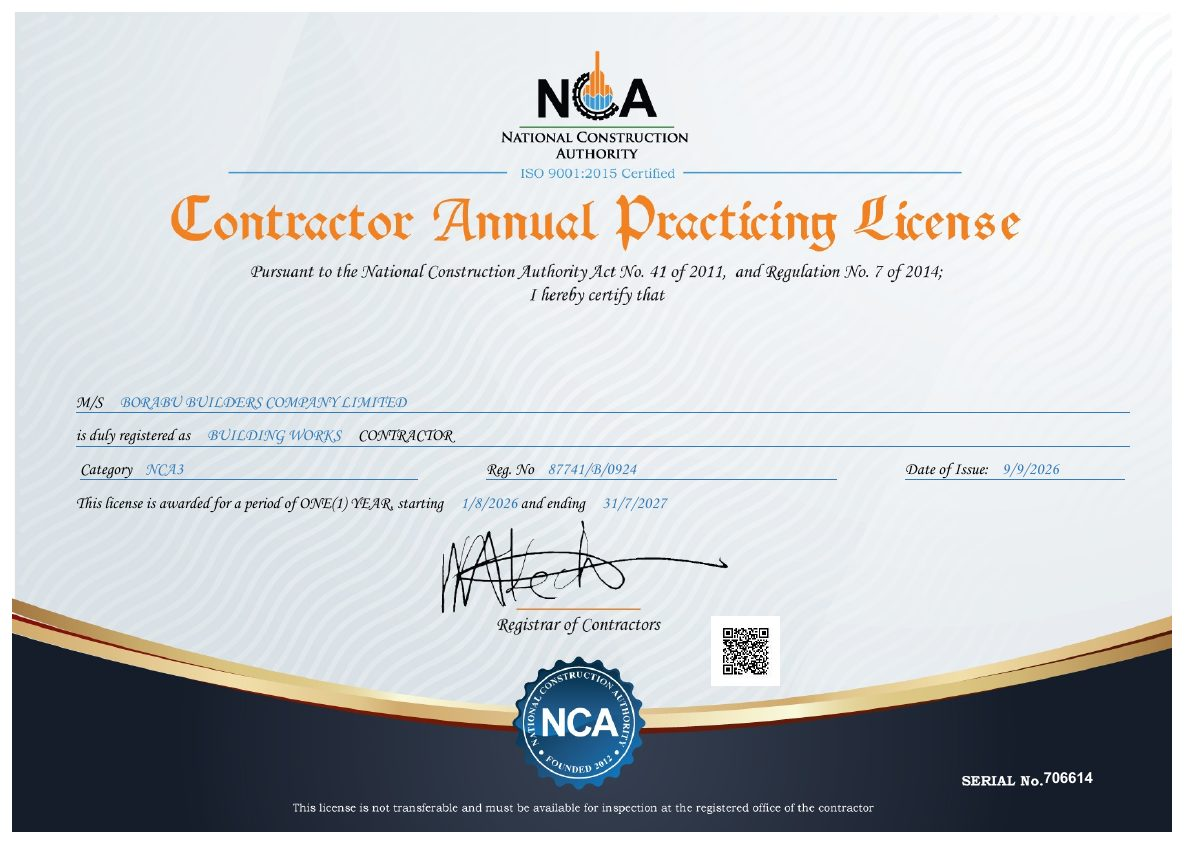
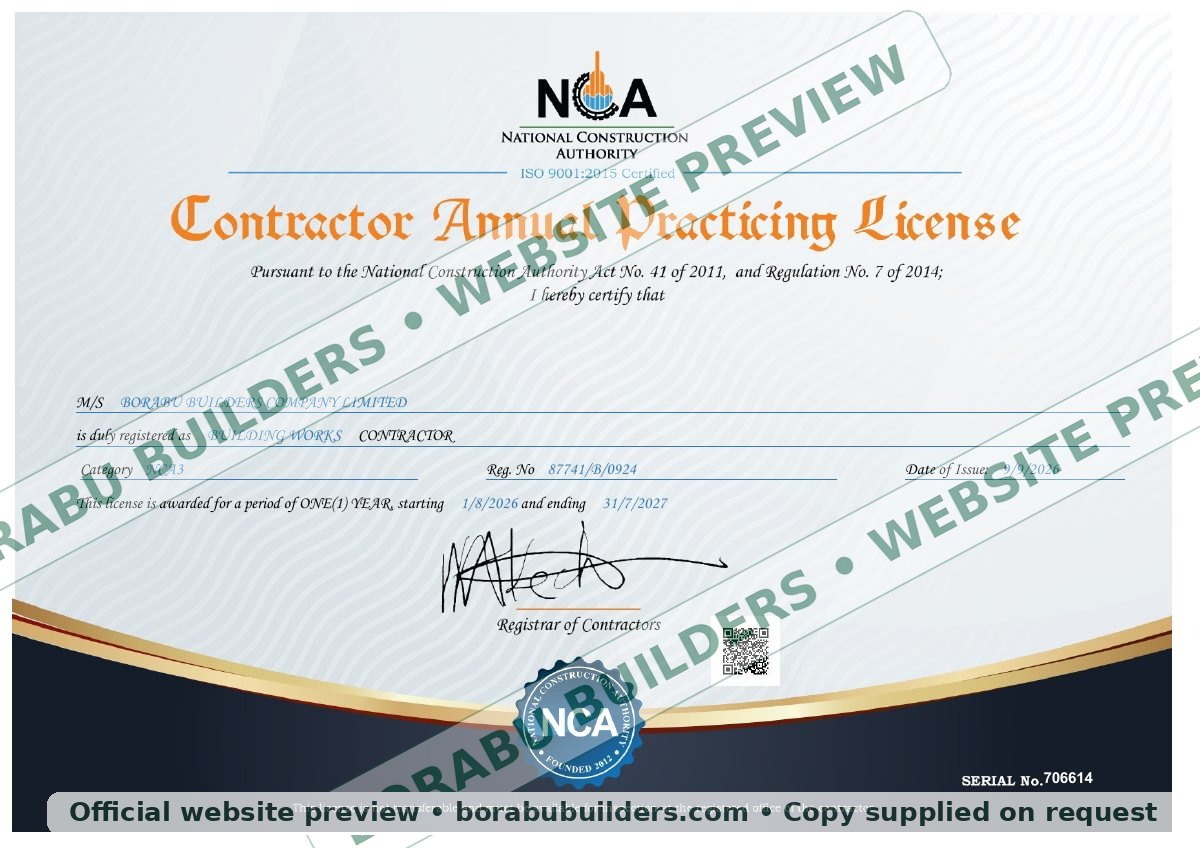
Add files via upload

diff --git a/about.html b/about.html
@@ -1,7 +1,7 @@
 <!DOCTYPE html>
 <html lang="en"><head><meta charset="utf-8"/><meta content="width=device-width,initial-scale=1" name="viewport"/><title>About | Borabu Builders Co. Ltd</title><link href="assets/css/styles.css" rel="stylesheet"/><link href="https://borabubuilders.com/about.html" rel="canonical"/><meta content="Learn about Borabu Builders Co. Ltd, a Kenyan construction company delivering building and infrastructure projects." name="description"/></head><body><header class="site-header"><div class="container nav"><a class="brand" href="index.html"><img alt="Borabu Builders logo" src="assets/images/borabu-logo.jpg"/><span>Borabu Builders<br/>Co. Ltd</span></a><nav class="nav-links"><a href="index.html">Home</a><a href="about.html">About</a><a href="services.html">Services</a><a href="projects.html">Projects</a><a href="contact.html">Contact</a></nav><a class="btn btn-primary project-trigger" href="#start-project">Start a project</a><button class="menu-toggle">☰</button></div></header><main><section class="page-hero"><div class="container"><div class="eyebrow">About Borabu</div><h1>Built in Kericho.<br/>Built to endure.</h1><p>Borabu Builders' current company history traces the business to 1988 and a foundation in practical construction delivery.</p></div></section><section><div class="container content-grid"><div><div class="eyebrow">Our story</div><h2>Experience measured in decades.</h2></div><div><p class="lead">Borabu Builders Company Limited was founded in 1988 in Kericho County, originally operating as Anyoka Borabu Builders, a sole proprietorship.</p><p>Over time, the company expanded its construction capability across residential, commercial, educational, industrial and public-service facilities, alongside water works, roads, structural steel, boreholes, repairs and renovations.</p><p>The company's current public website references work with major tea-sector organizations, private-sector clients and Government of Kenya departments and agencies.</p></div></div></section><section style="padding-top:0"><div class="container image-band reveal"><img alt="Construction works in progress" src="assets/images/project-unfinished.webp"/></div></section><section class="heritage"><div class="container heritage-grid"><div><div class="eyebrow">How we work</div><h2>Practical capability across the project lifecycle.</h2><p>Our strongest story is not a slogan. It is the ability to mobilize construction capability across different project types and environments, with experience that has accumulated over decades.</p></div><div class="service-grid" style="grid-template-columns:1fr 1fr;margin:0"><div class="service-card"><h3>Experience</h3><p>A business history stretching back to 1988.</p></div><div class="service-card"><h3>Range</h3><p>Capabilities across buildings, water, roads, steel and boreholes.</p></div><div class="service-card"><h3>Local roots</h3><p>Established presence in Kericho County.</p></div><div class="service-card"><h3>Cross-sector work</h3><p>Experience spanning private and public-sector environments.</p></div></div></div></section><section class="credentials" id="certifications"><div class="container"><div class="intro-grid reveal"><div><div class="eyebrow">Registration &amp; credentials</div><h2>Licensed for building and road works.</h2></div><div><p class="lead">Borabu Builders Company Limited is registered with Kenya’s National Construction Authority as an NCA3 contractor for both Building Works and Road Works.</p><p>The current registration certificates are valid to 31 July 2028, supported by annual practising licences valid from 1 August 2026 to 31 July 2027.</p></div></div><div class="credential-grid">
-<a class="credential-card reveal" href="assets/documents/nca3-building-registration-certificate.pdf" target="_blank" rel="noopener"><img src="assets/images/certifications/nca3-building-registration-certificate.jpg" alt="NCA3 Building Works Contractor registration certificate"/><div><span class="credential-type">NCA registration certificate</span><h3>NCA3 Building Works Contractor</h3><p>Registration No. 87741/B/0924 · Valid to 31 July 2028</p><strong>View certificate →</strong></div></a>
-<a class="credential-card reveal" href="assets/documents/nca3-road-registration-certificate.pdf" target="_blank" rel="noopener"><img src="assets/images/certifications/nca3-road-registration-certificate.jpg" alt="NCA3 Road Works Contractor registration certificate"/><div><span class="credential-type">NCA registration certificate</span><h3>NCA3 Road Works Contractor</h3><p>Registration No. 87741/R/0924 · Valid to 31 July 2028</p><strong>View certificate →</strong></div></a>
-<a class="credential-card reveal" href="assets/documents/nca3-building-practising-license-2026-2027.pdf" target="_blank" rel="noopener"><img src="assets/images/certifications/nca3-building-practising-license-2026-2027.jpg" alt="NCA Building Works annual practising licence"/><div><span class="credential-type">Annual practising licence</span><h3>Building Works — 2026/27</h3><p>Current annual licence · 1 August 2026–31 July 2027</p><strong>View licence →</strong></div></a>
-<a class="credential-card reveal" href="assets/documents/nca3-road-practising-license-2026-2027.pdf" target="_blank" rel="noopener"><img src="assets/images/certifications/nca3-road-practising-license-2026-2027.jpg" alt="NCA Road Works annual practising licence"/><div><span class="credential-type">Annual practising licence</span><h3>Road Works — 2026/27</h3><p>Current annual licence · 1 August 2026–31 July 2027</p><strong>View licence →</strong></div></a>
-</div></div></section><section class="cta"><div class="container"><div class="cta-box"><div><div class="eyebrow" style="color:#d7c49a">Talk to us</div><h2>Have a project to discuss?</h2><p>Share the scope, location and timing. We'll start with a conversation.</p></div><a class="btn btn-light" href="contact.html">Contact Borabu</a></div></div></section></main><footer class="footer"><div class="container"><div class="footer-bottom" style="margin-top:0"><span>© 2026 Borabu Builders Co. Ltd.</span><a href="index.html">Back to home</a></div></div></footer><script src="assets/js/site.js"></script></body></html>
+<button class="credential-card reveal certificate-trigger" type="button" data-cert-src="assets/images/certifications/nca3-building-registration-certificate.jpg" data-cert-title="NCA3 Building Works Contractor — Registration Certificate"><img class="protected-certificate" src="assets/images/certifications/nca3-building-registration-certificate.jpg" alt="NCA3 Building Works Contractor registration certificate" draggable="false"/><div><span class="credential-type">NCA registration certificate</span><h3>NCA3 Building Works Contractor</h3><p>Registration No. 87741/B/0924 · Valid to 31 July 2028</p><strong>View protected preview →</strong></div></button>
+<button class="credential-card reveal certificate-trigger" type="button" data-cert-src="assets/images/certifications/nca3-road-registration-certificate.jpg" data-cert-title="NCA3 Road Works Contractor — Registration Certificate"><img class="protected-certificate" src="assets/images/certifications/nca3-road-registration-certificate.jpg" alt="NCA3 Road Works Contractor registration certificate" draggable="false"/><div><span class="credential-type">NCA registration certificate</span><h3>NCA3 Road Works Contractor</h3><p>Registration No. 87741/R/0924 · Valid to 31 July 2028</p><strong>View protected preview →</strong></div></button>
+<button class="credential-card reveal certificate-trigger" type="button" data-cert-src="assets/images/certifications/nca3-building-practising-license-2026-2027.jpg" data-cert-title="Building Works — 2026/27 Annual Practising Licence"><img class="protected-certificate" src="assets/images/certifications/nca3-building-practising-license-2026-2027.jpg" alt="NCA Building Works annual practising licence" draggable="false"/><div><span class="credential-type">Annual practising licence</span><h3>Building Works — 2026/27</h3><p>Current annual licence · 1 August 2026–31 July 2027</p><strong>View protected preview →</strong></div></button>
+<button class="credential-card reveal certificate-trigger" type="button" data-cert-src="assets/images/certifications/nca3-road-practising-license-2026-2027.jpg" data-cert-title="Road Works — 2026/27 Annual Practising Licence"><img class="protected-certificate" src="assets/images/certifications/nca3-road-practising-license-2026-2027.jpg" alt="NCA Road Works annual practising licence" draggable="false"/><div><span class="credential-type">Annual practising licence</span><h3>Road Works — 2026/27</h3><p>Current annual licence · 1 August 2026–31 July 2027</p><strong>View protected preview →</strong></div></button>
+</div><p class="certificate-note">Website previews are watermarked for verification. Official copies may be provided directly by Borabu Builders upon request.</p></div></section><section class="cta"><div class="container"><div class="cta-box"><div><div class="eyebrow" style="color:#d7c49a">Talk to us</div><h2>Have a project to discuss?</h2><p>Share the scope, location and timing. We'll start with a conversation.</p></div><a class="btn btn-light" href="contact.html">Contact Borabu</a></div></div></section></main><footer class="footer"><div class="container"><div class="footer-bottom" style="margin-top:0"><span>© 2026 Borabu Builders Co. Ltd.</span><a href="index.html">Back to home</a></div></div></footer><script src="assets/js/site.js"></script></body></html>

diff --git a/assets/css/styles.css b/assets/css/styles.css
@@ -24,3 +24,7 @@
 
 /* V7 NCA credentials */
 .credentials{background:var(--mint)}.credential-grid{display:grid;grid-template-columns:repeat(2,1fr);gap:20px;margin-top:44px}.credential-card{display:grid;grid-template-columns:210px 1fr;gap:24px;align-items:center;background:#fff;border:1px solid var(--line);border-radius:22px;padding:18px;box-shadow:0 12px 36px rgba(16,35,29,.07);transition:.25s ease}.credential-card:hover{transform:translateY(-4px);box-shadow:var(--shadow)}.credential-card img{width:210px;height:150px;object-fit:cover;object-position:center;border-radius:13px;border:1px solid #e6e6e6}.credential-card h3{margin:.35rem 0 .45rem;font-size:1.35rem}.credential-card p{font-size:.9rem;margin-bottom:.55rem}.credential-card strong{color:var(--forest);font-size:.9rem}.credential-type{font-size:.72rem;font-weight:900;letter-spacing:.1em;text-transform:uppercase;color:var(--gold)}@media(max-width:900px){.credential-grid{grid-template-columns:1fr}}@media(max-width:620px){.credential-card{grid-template-columns:1fr}.credential-card img{width:100%;height:auto;max-height:260px;object-fit:contain;background:#f7f7f7}}
+
+
+/* V8 protected certificate previews */
+.credential-card{font:inherit;color:inherit;text-align:left;cursor:pointer;width:100%;appearance:none;-webkit-appearance:none}.credential-card:focus-visible{outline:3px solid rgba(8,127,79,.30);outline-offset:3px}.protected-certificate{-webkit-user-drag:none;user-select:none;-webkit-user-select:none}.certificate-note{margin:24px 0 0;font-size:.82rem;color:#6b786f}.certificate-viewer{position:fixed;inset:0;z-index:260;display:none;align-items:center;justify-content:center;padding:22px}.certificate-viewer.open{display:flex}.certificate-viewer-backdrop{position:absolute;inset:0;background:rgba(4,18,13,.88);backdrop-filter:blur(7px)}.certificate-viewer-panel{position:relative;z-index:2;width:min(1180px,100%);max-height:calc(100vh - 44px);display:flex;flex-direction:column;background:#fff;border-radius:22px;overflow:hidden;box-shadow:0 32px 100px rgba(0,0,0,.42)}.certificate-viewer-head{display:flex;align-items:center;justify-content:space-between;gap:18px;padding:16px 18px;border-bottom:1px solid var(--line)}.certificate-viewer-head h3{font-family:Inter,ui-sans-serif,system-ui,-apple-system,BlinkMacSystemFont,"Segoe UI",sans-serif;font-size:1rem;margin:0}.certificate-viewer-close{border:0;background:var(--mint);color:var(--ink);width:42px;height:42px;border-radius:50%;font-size:1.45rem;cursor:pointer;flex:0 0 auto}.certificate-viewer-stage{position:relative;overflow:auto;background:#eef2ef;padding:18px;display:flex;align-items:flex-start;justify-content:center}.certificate-viewer-stage img{display:block;width:auto;max-width:100%;height:auto;max-height:calc(100vh - 155px);object-fit:contain;box-shadow:0 8px 30px rgba(0,0,0,.12);-webkit-user-drag:none;user-select:none;-webkit-user-select:none}.certificate-viewer-shield{position:absolute;inset:0;z-index:3;background:transparent}.certificate-viewer-foot{padding:10px 18px 13px;border-top:1px solid var(--line);font-size:.78rem;color:#6b786f;text-align:center}.certificate-viewer-open{overflow:hidden}@media(max-width:620px){.certificate-viewer{padding:8px}.certificate-viewer-panel{max-height:96vh;border-radius:16px}.certificate-viewer-stage{padding:10px}.certificate-viewer-stage img{max-height:calc(96vh - 150px)}}

diff --git a/assets/js/site.js b/assets/js/site.js
@@ -15,3 +15,39 @@ const closeModal=()=>{modal.classList.remove('open');modal.setAttribute('aria-hi
 document.querySelectorAll('.project-trigger').forEach(a=>a.addEventListener('click',e=>{e.preventDefault();openModal()}));
 modal.querySelectorAll('[data-close-modal]').forEach(el=>el.addEventListener('click',closeModal));
 document.addEventListener('keydown',e=>{if(e.key==='Escape'&&modal.classList.contains('open'))closeModal()});
+
+
+// Protected certificate preview viewer (deterrence only; screenshots can never be fully prevented in a browser).
+const certificateTriggers=document.querySelectorAll('.certificate-trigger');
+if(certificateTriggers.length){
+  const certificateViewer=document.createElement('div');
+  certificateViewer.className='certificate-viewer';
+  certificateViewer.setAttribute('aria-hidden','true');
+  certificateViewer.innerHTML=`<div class="certificate-viewer-backdrop" data-close-certificate></div><div class="certificate-viewer-panel" role="dialog" aria-modal="true" aria-labelledby="certificate-viewer-title"><div class="certificate-viewer-head"><h3 id="certificate-viewer-title">Certificate preview</h3><button class="certificate-viewer-close" type="button" aria-label="Close certificate preview" data-close-certificate>×</button></div><div class="certificate-viewer-stage"><img class="protected-certificate" alt="Certificate preview" draggable="false"><div class="certificate-viewer-shield" aria-hidden="true"></div></div><div class="certificate-viewer-foot">Watermarked website preview for verification. Official copies are available directly from Borabu Builders on request.</div></div>`;
+  document.body.appendChild(certificateViewer);
+  const certImg=certificateViewer.querySelector('img');
+  const certTitle=certificateViewer.querySelector('#certificate-viewer-title');
+  const openCertificate=(trigger)=>{
+    certImg.src=trigger.dataset.certSrc;
+    certImg.alt=trigger.dataset.certTitle || 'Certificate preview';
+    certTitle.textContent=trigger.dataset.certTitle || 'Certificate preview';
+    certificateViewer.classList.add('open');
+    certificateViewer.setAttribute('aria-hidden','false');
+    document.body.classList.add('certificate-viewer-open');
+    certificateViewer.querySelector('.certificate-viewer-close')?.focus();
+  };
+  const closeCertificate=()=>{
+    certificateViewer.classList.remove('open');
+    certificateViewer.setAttribute('aria-hidden','true');
+    document.body.classList.remove('certificate-viewer-open');
+    certImg.removeAttribute('src');
+  };
+  certificateTriggers.forEach(trigger=>trigger.addEventListener('click',()=>openCertificate(trigger)));
+  certificateViewer.querySelectorAll('[data-close-certificate]').forEach(el=>el.addEventListener('click',closeCertificate));
+  document.addEventListener('keydown',e=>{if(e.key==='Escape'&&certificateViewer.classList.contains('open'))closeCertificate()});
+  document.querySelectorAll('.protected-certificate').forEach(img=>{
+    img.addEventListener('contextmenu',e=>e.preventDefault());
+    img.addEventListener('dragstart',e=>e.preventDefault());
+  });
+  certificateViewer.addEventListener('contextmenu',e=>e.preventDefault());
+}
